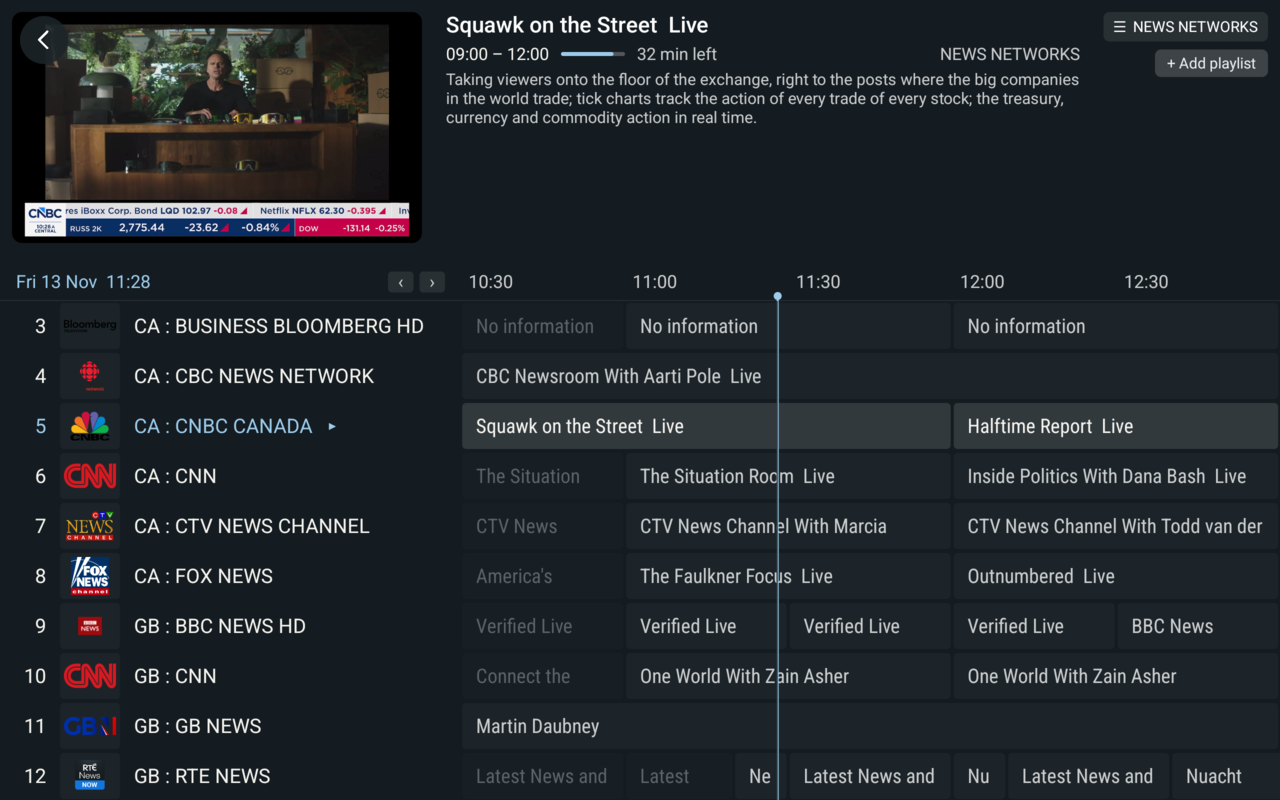
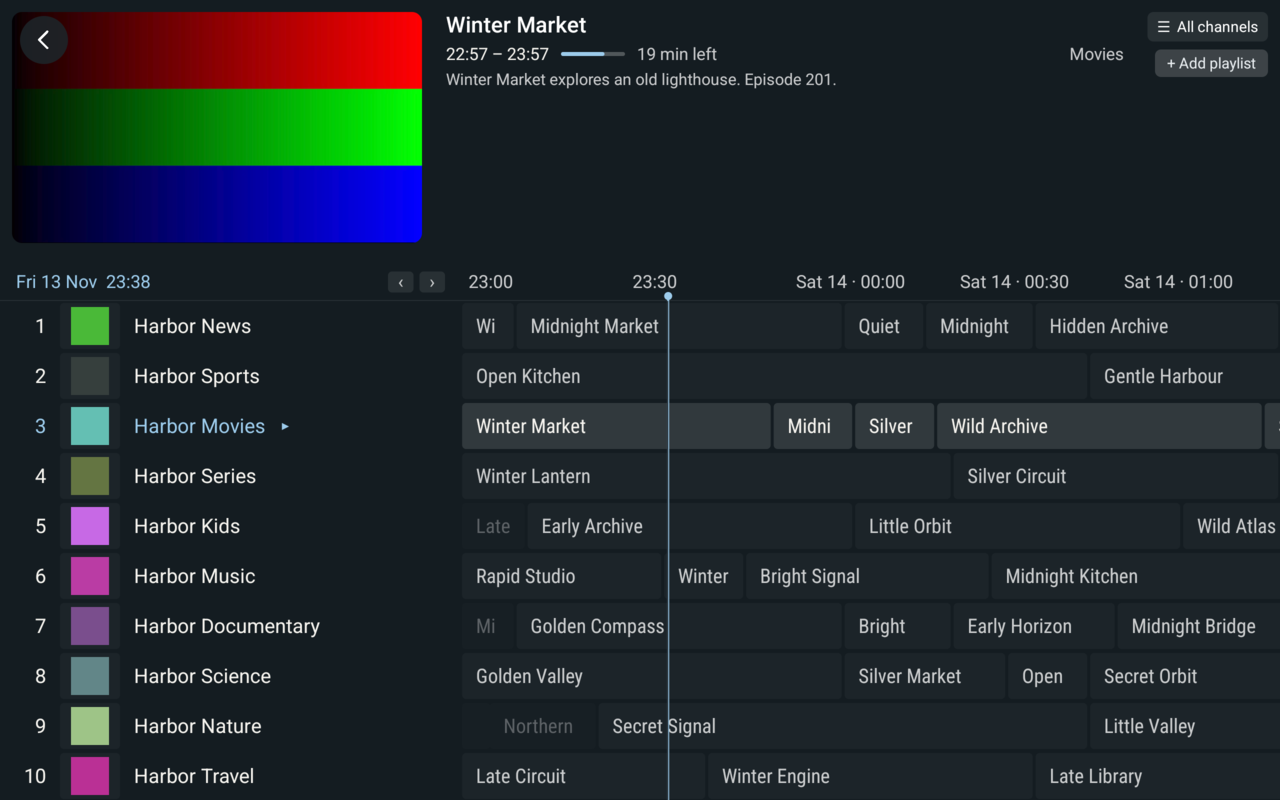
Replace the tablet screenshot with one of the synthetic fixtures
The previous tablet capture showed a real provider's channel list, logos and
a broadcast frame, against the project's synthetic-data rule. The new one is
the guide on a pixel_tablet emulator (2560x1600, scaled to 1280x800) with the
generated playlist and guide from tools/make-iptv-fixtures.py and a synthetic
test stream in the preview. The debug build's key-timing line in the header
was painted over with the background colour. The README caption no longer
needs its caveat.

The old image remains in the repository's history.

diff --git a/README.md b/README.md
@@ -21,9 +21,8 @@ shares none of its code or artwork.
 
 ![The guide on an Android tablet, with a live channel in the preview](docs/screenshots/tablet-guide.png)
 
-<sub>The Android TV screenshots use the repository's synthetic playlist,
-guide and test streams. The tablet screenshot shows a real provider's
-playlist.</sub>
+<sub>All screenshots use the repository's synthetic playlist, guide and
+test streams.</sub>
 
 Patina provides no channels or content. You add the playlist or account
 your IPTV provider gave you.
